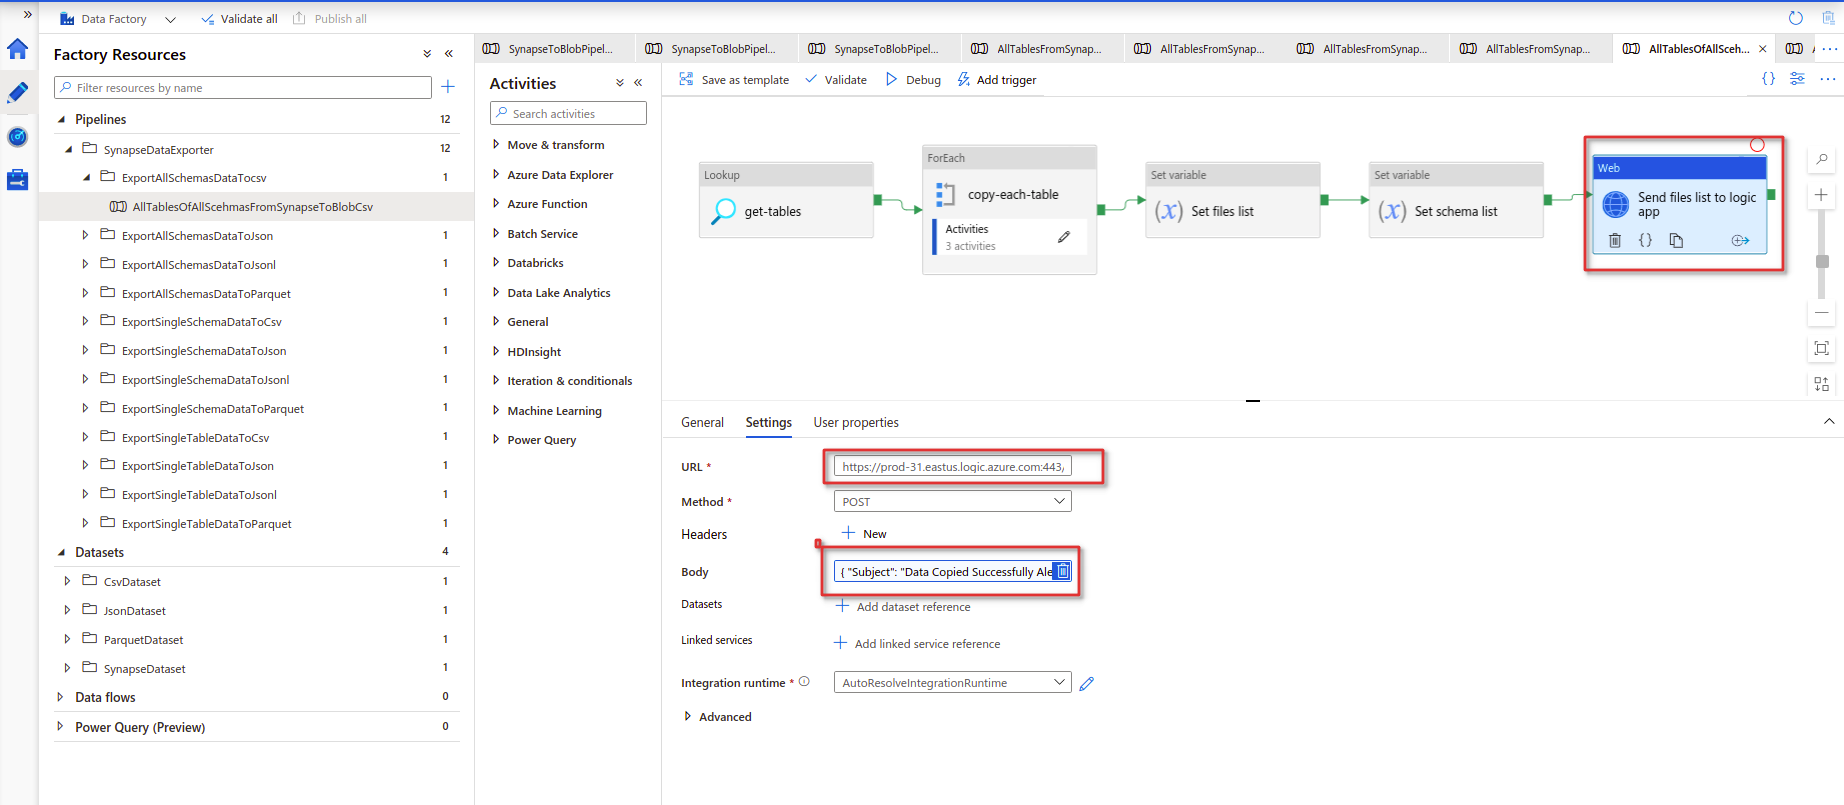
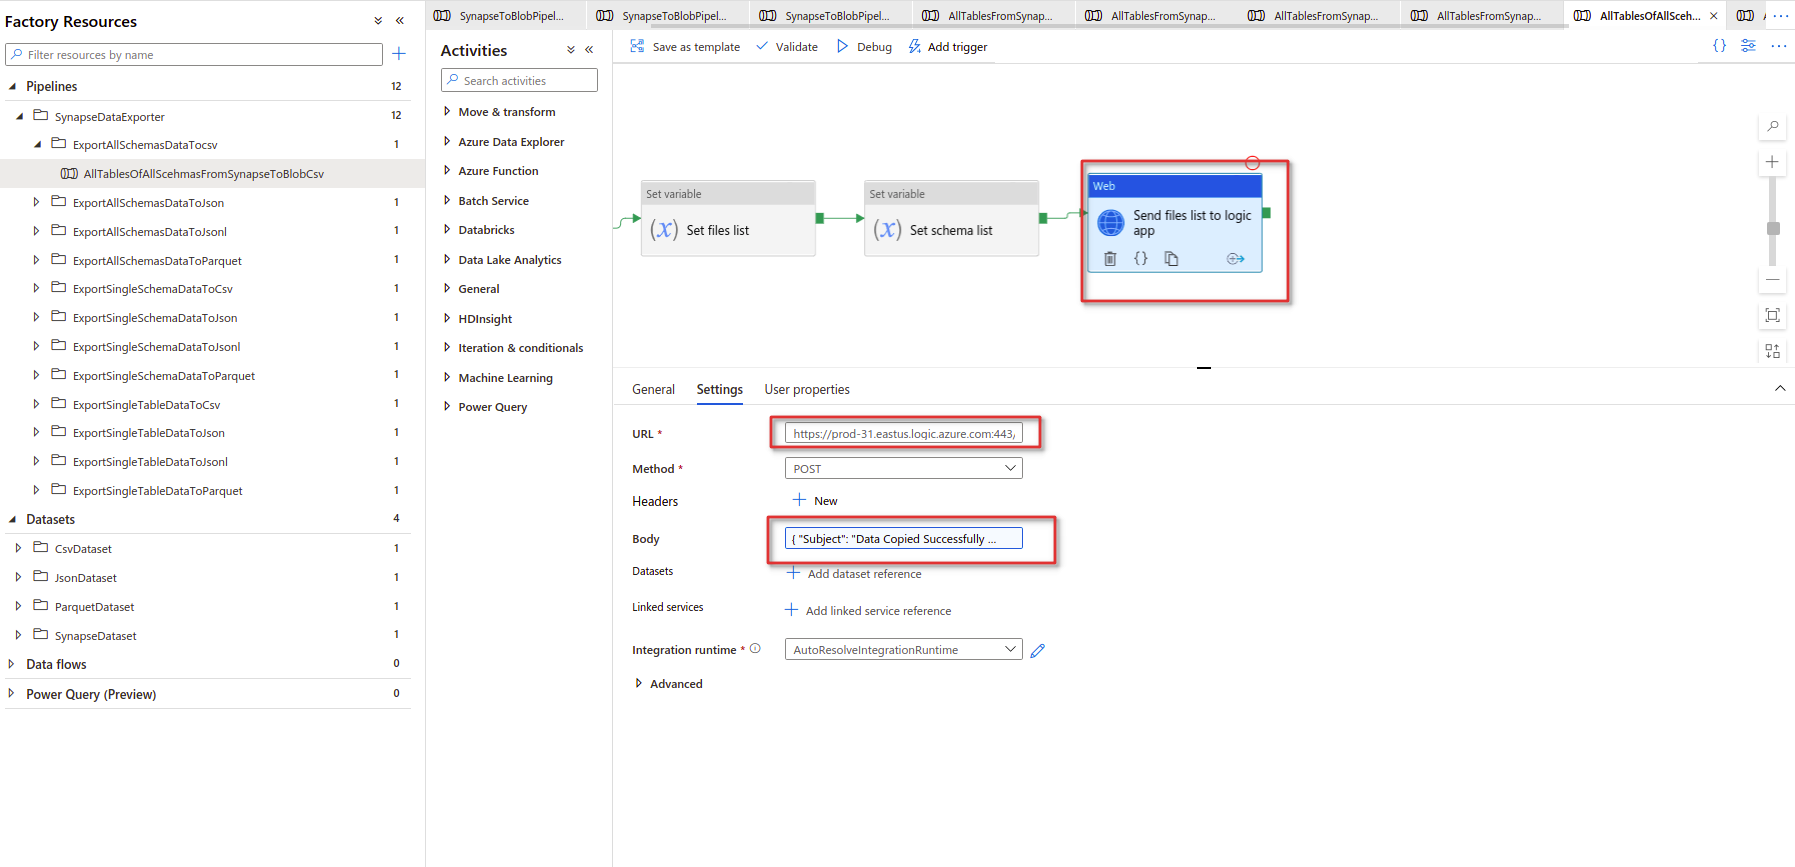
scenario3 images updated for all pipelines

diff --git a/SynapseDataExporter/README.md b/SynapseDataExporter/README.md
@@ -155,7 +155,7 @@ Inside settings of web activity **logic app end point URL** is provided and requ
 ![web-activity](./images/scenario1/scenario1WebActivity.png)
 
 
-![web-activity-body](./images/scenario1/Scenario1WebActivityBody.png)
+![web-activity-body](./images/synapseDataExporter/sc1WebActivityCSV.png)
 
 #### Step4: Setup and Configure Notifications for MS Teams and Outlook
 
@@ -203,6 +203,7 @@ Once template is deployed you will find the app logic resouorce created, it will
 ![designer-image-sc2](./images/scenario1/sc1AppLogic.png)
 
 #### Scenario2: Exporting a specific schema from synapse analytics.
+
 Take schema name then copy all tables of that schema from synapse exporter to azure blob storage with support of CSV, JSON, JSONL and PARQUET.
 
 Pipeline For Exporting Data To CSV Format
@@ -239,17 +240,7 @@ You need to provide following parameters before for executing the pipeline
 
 #### Pipeline workflow explanation
 
-#### Step1: Two linked services are created for synapse analytics and blob storage account
-
-Synapse analytics linked service for establishing connection with it.
-
-![synapse-linkedservice](./images/scenario2/synapseLinkedService.png)
-
-Azure Blob Storage linked service for establishing connection with it.
-
-![blobstorage-linkedservice](./images/scenario2/blob-storage-linkedService.png)
-
-#### Step2: Lookup activity for getting tables list
+#### Step1: Lookup activity for getting tables list
    
    Lookup activity is used to get the tables information. In the settings tab source dataset synapse linked service is selected from where data will be fetched.
    In the query section query is written which fetches all the tables of given schema
@@ -258,14 +249,14 @@ Azure Blob Storage linked service for establishing connection with it.
 
 ![lookup-query](./images/scenario2/get-tables-query.png)
 
-#### Step3: For each activity 
+#### Step2: For each activity 
    
    For each activity is used which iterates the table name one by one
  
 ![for-each](./images/scenario2/for-each-loop.png)
  
  
-#### Step4: Copy activity inside For each activity
+#### Step3: Copy activity inside For each activity
  
  Copy actvity is used which gets the each table name from the synapse analytics and copies into the given blob storage account.
  Copy activity source contains synapse linked service and takes values of schema name and table name by using tableName and schemaName parameters
@@ -280,7 +271,7 @@ Dataset name is created by combining schema name and table table
 
 ![dataset-name](./images/scenario2/copy-data-datasetName.png)
 
-#### Step5: Using get variables and set variables activity to get the list of cocpied files
+#### Step4: Using get variables and set variables activity to get the list of cocpied files
 
 1. Two variables with the names **fileNamesCopy** and **fileName** are created
 
@@ -299,16 +290,16 @@ Dataset name is created by combining schema name and table table
 ![set-variable-activity](./images/scenario2/set-variable.png)
 
 
-#### Step6: Web Activity is used to send list of files to logic app for notifications along with other parameters
+#### Step5: Web Activity is used to send list of files to logic app for notifications along with other parameters
 
 Inside settings of web activity **logic app end point URL** is provided and required parameters values are passed in the body 
 
 ![web-activity](./images/scenario2/web-activity.png)
 
 
-![web-activity-body](./images/scenario2/web-activity2.png)
+![web-activity-body](./images/synapseDataExporter/sc2Webactivity.png)
 
-#### Step7: Authenticating Microsoft Teams account with Azure Logic App
+#### Step6: Authenticating Microsoft Teams account with Azure Logic App
 
 
 1. First, navigate to the resource group that contains your deployment and find the resource titled **"msftTeamsConnectionAuth"**. Click on it and navigate to its **"Edit API connection"** option from the sidebar. 
@@ -363,6 +354,7 @@ Pipeline For Exporting Data To CSV Format
 You need to provide following parameters before for executing the pipeline
 1. containerName
 2. EmailTo
+3. From
 
 ![CSV Format](./images/scenario3/sc3PipelineCsv.png)
 
@@ -387,33 +379,21 @@ You need to provide following parameters before for executing the pipeline
 
 ![parquet Format](./images/scenario3/Sc3PipelineParquet.png)
 
-#### Pipeline workflow explanation
-
-#### Step1: Two linked services are created for synapse analytics and blob storage account
-
-Synapse analytics linked service for establishing connection with it.
-
-![synapse-linkedservice](./images/scenario2/synapseLinkedService.png)
-
-Azure Blob Storage linked service for establishing connection with it.
-
-![blobstorage-linkedservice](./images/scenario2/blob-storage-linkedService.png)
-
-#### Step2: Lookup activity for getting tables list
+#### Step1: Lookup activity for getting tables list
    
    Lookup activity is used to get the tables information. In the settings tab source dataset synapse linked service is selected from where data will be fetched.
    In the query section query is written which fetches all the tables of given schema
    
-![lookup-get-tables](./images/scenario2/lookup-get-tables.png)
+![lookup-get-tables](./images/synapseDataExporter/sc3lookup.png)
 
 Query is written for getting all schemas tables
-![lookup-query](./images/scenario3/get-tables-query.png)
+![lookup-query](./images/synapseDataExporter/sc3lookupQuery.png)
 
 #### Step3: For each activity 
    
    For each activity is used which iterates the table name one by one
  
-![for-each](./images/scenario2/for-each-loop.png)
+![for-each](./images/synapseDataExporter/sc3Foreach.png)
  
  
 #### Step4: Copy activity inside For each activity
@@ -421,43 +401,47 @@ Query is written for getting all schemas tables
  Copy actvity is used which gets the each table name from the synapse analytics and copies into the given blob storage account.
  Copy activity source contains synapse linked service and takes values of schema name and table name by using tableName and schemaName parameters
  
-![copy-activity-source](./images/scenario2/copy-data-source.png)
+![copy-activity-source](./images/synapseDataExporter/sc3copysource.png)
 
  In the sink of copy activity, dataset of desired format is selected and containing parameters of containerName and datasetName
  
-![copy-activity-sink](./images/scenario2/copy-data-sink.png)
+![copy-activity-sink](./images/synapseDataExporter/sc3CopySink.png)
 
 Dataset name is created by combining schema name and table table 
 
-![dataset-name](./images/scenario2/copy-data-datasetName.png)
+![dataset-name](./images/synapseDataExporter/sc3CopySinkQuery.png)
 
 #### Step5: Using get variables and set variables activity to get the list of cocpied files
 
-1. Two variables with the names **fileNamesCopy** and **fileName** are created
+1. Four variables with the names **fileNamesCopy**, **fileName**, **schemaNameCopy** and **schemaName** are createed
 
-![variables](./images/scenario2/Variables.png)
+![variables](./images/synapseDataExporter/sc3Variables.png)
 
-2. Get variables activity is used inside for each activity to get table name each time the for each activity is executed and which is stored in **fileNamesCopy** variable
+2. Get variables activity is used inside for each activity to get table name each time the for each activity is executed and which is stored in **fileNamesCopy** variable.
+The value of filename is created by concatenating schema name and table name
 
-![variables-apped](./images/scenario2/vairables-append.png)
+![variables-apped](./images/synapseDataExporter/sc3AppendFileame.png)
 
-3. The value of filename is created by concatenating schema name and table name
+3. Get variables activity is used inside for each activity to get schema name each time the for each activity is executed and which is stored in **SchemaNameCopy** variable.
 
-![variables-apped-value](./images/scenario2/vairable-append-value.png)
+![variables-apped-schema](./images/synapseDataExporter/sc3AppendSchema.png) 
 
 4. Set variables activity is used outside the for each activity which will contain the comma separated list of values and will be stored in another variable named **fileName**
 
-![set-variable-activity](./images/scenario2/set-variable.png)
+![set-variable-activity](./images/synapseDataExporter/sc3SetFileList.png)
 
+4. Set variables activity is used outside the for each activity which will contain the comma separated list of values and will be stored in another variable named **fileName**
+
+![set-variable-schema](./images/synapseDataExporter/Sc3SetSchemaList.png)
 
 #### Step6: Web Activity is used to send list of files to logic app for notifications along with other parameters
 
 Inside settings of web activity **logic app end point URL** is provided and required parameters values are passed in the body 
 
-![web-activity](./images/scenario2/web-activity.png)
+![web-activity](./images/synapseDataExporter/sc3WebActivity.png)
 
 
-![web-activity-body](./images/scenario2/web-activity2.png)
+![web-activity-body](./images/synapseDataExporter/web-activity2.png)
 
 #### Step7: Authenticating Microsoft Teams account with Azure Logic App
 
